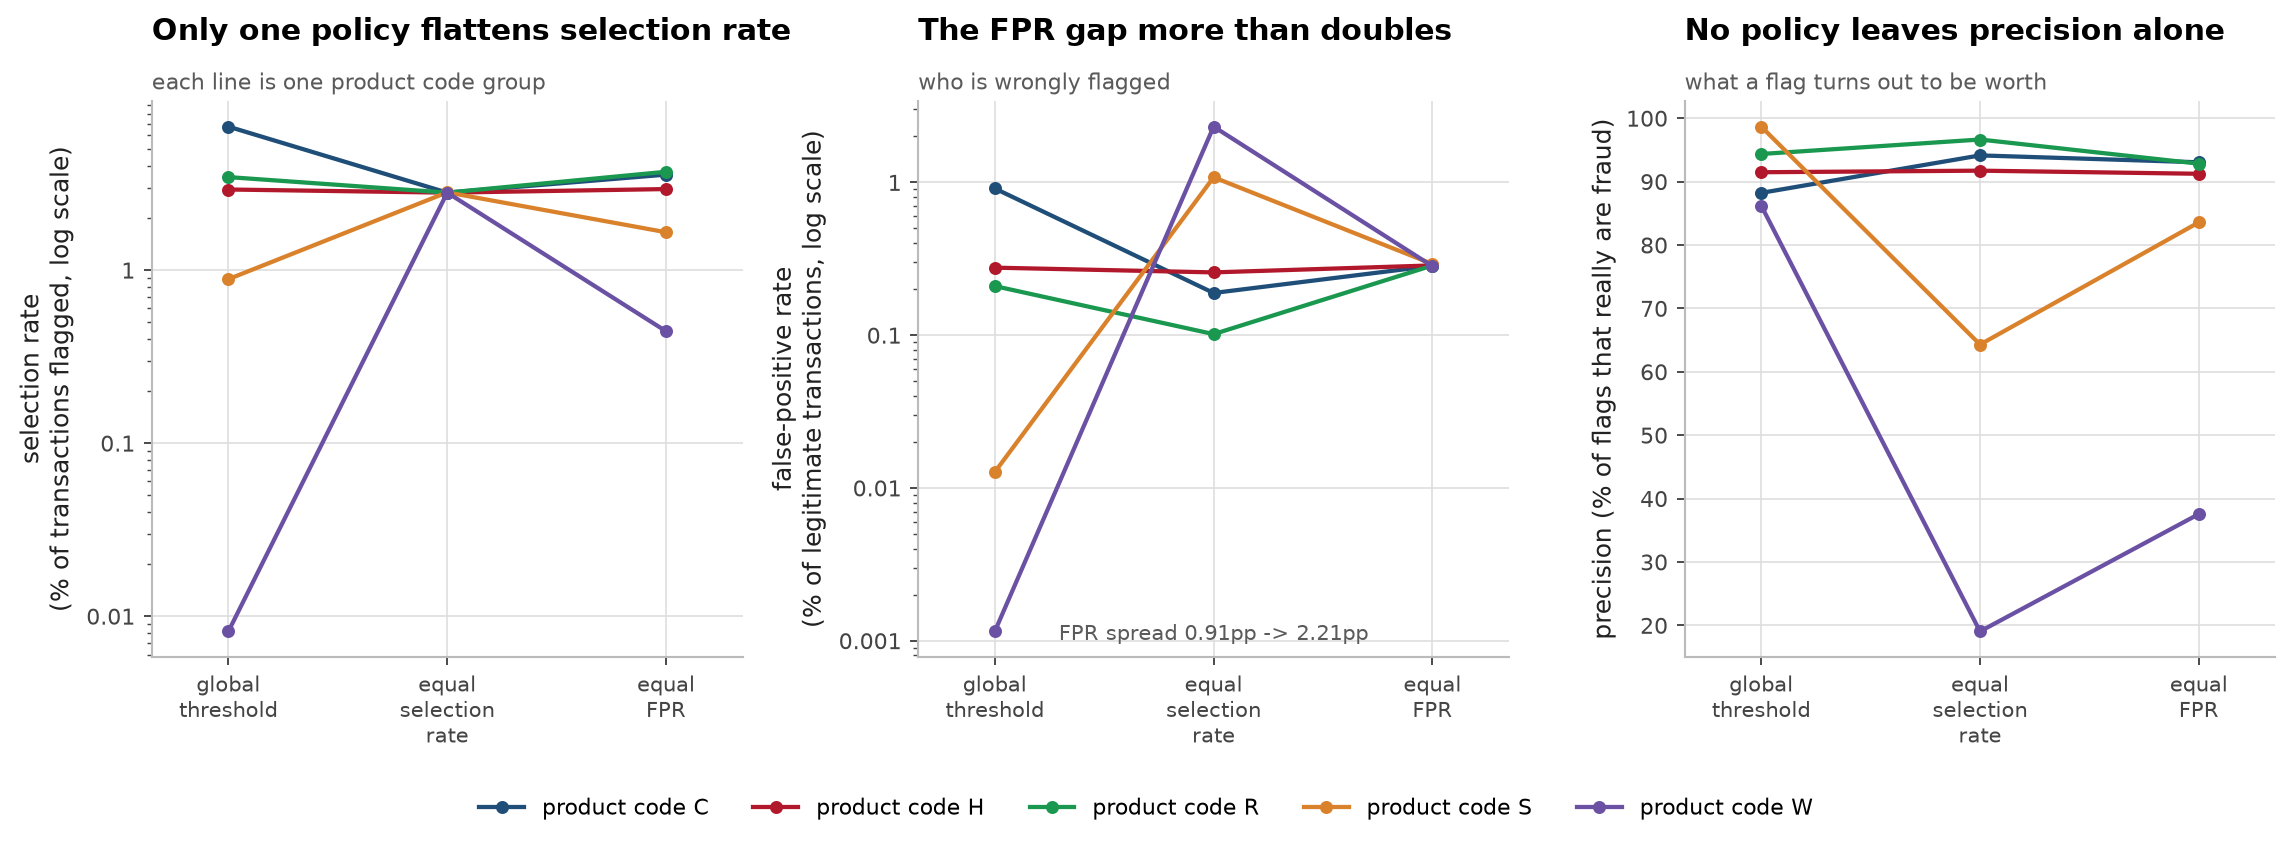
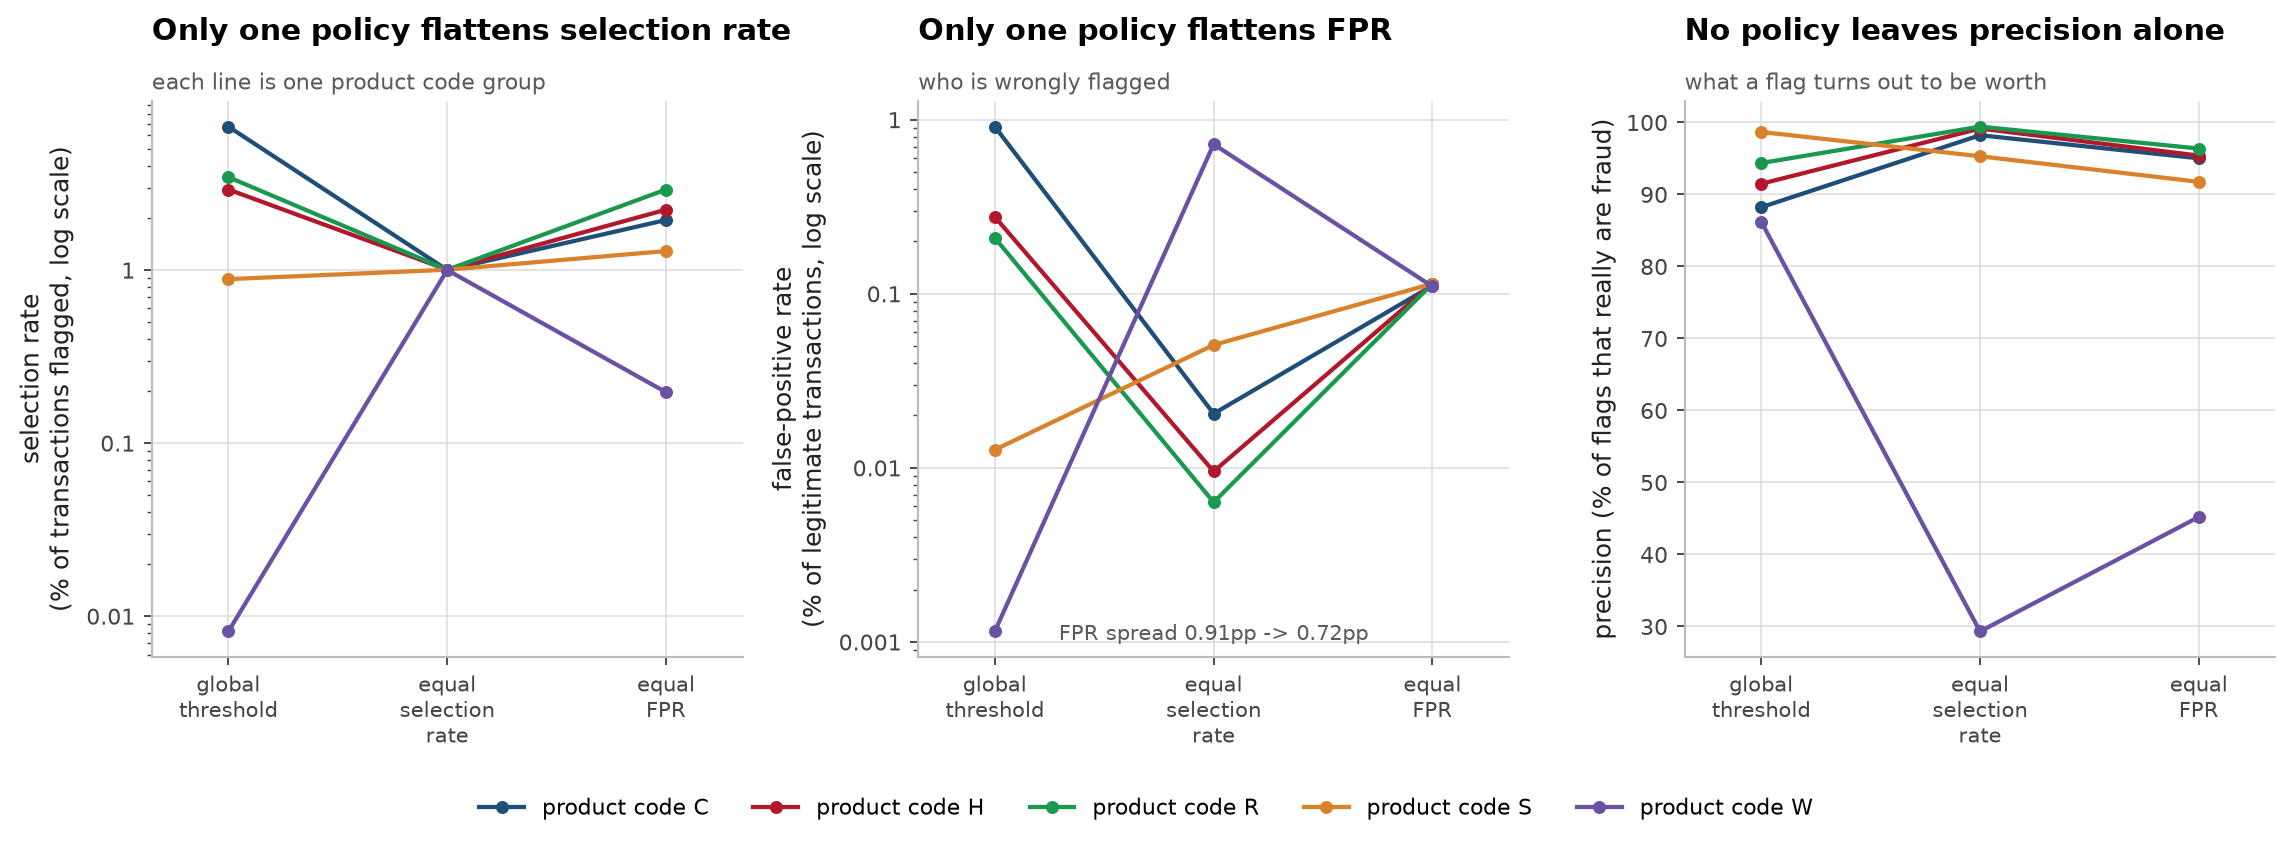
Pool the equalising policy targets over groups
impossibility.run set the equal selection and equal FPR targets as unweighted means of the five product codes' rates under the global threshold, so the targets were 2.80% selection and 0.28% FPR against a 1.00% budget and a pooled 0.11% FPR. They are now pooled: selection weighted by group size, FPR by each group's legitimate transactions. New test with groups of unequal size fails on the old code. Rebuilt data/scored.parquet from ieee-fraud-ml main and reran make audit; segment tables are unchanged. Old -> new: equal selection FPR spread 2.21pp -> 0.72pp (global 0.91pp), fraud caught 4,136 -> 1,904 (global 3,962); equal FPR selection spread 3.26pp -> 2.72pp, fraud caught 3,273 -> 2,074. So equalising selection rate no longer widens the FPR gap; what it costs at a fixed budget is half the fraud caught. README, METHODS section 4 and the figure title say that now. The Java check that the two targets need a TPR above 1 only held because of the inflated targets; it now checks that the model's own TPR at the FPR target misses the TPR both targets need (W needs 42.9%, gets 4.3%). summary.sql and readme.js follow the new definitions and prose.

diff --git a/verify/readme.js b/verify/readme.js
@@ -200,21 +200,34 @@ claim(
   "the spread the shipped policy leaves",
   `leaves a **${P["global threshold"].selection_spread_pp.toFixed(2)}pp** spread in selection rate`
 );
+const fmt = (n) => n.toLocaleString("en-US");
 claim(
-  "what equalising selection rate costs",
-  `closes that to ${P["equal selection rate"].selection_spread_pp.toFixed(2)}pp but more than ` +
-    `doubles the false-positive spread, ${P["global threshold"].FPR_spread_pp.toFixed(2)}pp ` +
-    `to **${P["equal selection rate"].FPR_spread_pp.toFixed(2)}pp**`
+  "the false-positive spread the shipped policy leaves",
+  `and a ${P["global threshold"].FPR_spread_pp.toFixed(2)}pp spread in false-positive rate`
+);
+claim(
+  "what equalising selection rate does to the two spreads",
+  `closes the first to ${P["equal selection rate"].selection_spread_pp.toFixed(2)}pp and ` +
+    `narrows the second to ${P["equal selection rate"].FPR_spread_pp.toFixed(2)}pp`
 );
 assert(
-  "equalising selection rate really does more than double the false-positive spread",
-  P["equal selection rate"].FPR_spread_pp / P["global threshold"].FPR_spread_pp > 2,
+  "equalising selection rate really does narrow the false-positive spread",
+  P["equal selection rate"].FPR_spread_pp < P["global threshold"].FPR_spread_pp,
   `the factor is ${(P["equal selection rate"].FPR_spread_pp / P["global threshold"].FPR_spread_pp).toFixed(3)}`
 );
 claim(
+  "what equalising selection rate costs in fraud caught",
+  `catches **${fmt(P["equal selection rate"].fraud_caught)}** frauds instead of ` +
+    `**${fmt(P["global threshold"].fraud_caught)}**`
+);
+claim(
   "what equalising false-positive rate costs",
-  `closes that gap to ${P["equal FPR"].FPR_spread_pp.toFixed(2)}pp and opens a ` +
-    `${P["equal FPR"].selection_spread_pp.toFixed(2)}pp selection spread instead`
+  `closes that gap to ${P["equal FPR"].FPR_spread_pp.toFixed(2)}pp, leaves a ` +
+    `${P["equal FPR"].selection_spread_pp.toFixed(2)}pp selection spread`
+);
+claim(
+  "fraud caught under equal false-positive rate",
+  `and catches ${fmt(P["equal FPR"].fraud_caught)}.`
 );
 assert(
   "both equalising policies need more than one threshold",

diff --git a/verify/Impossibility.java b/verify/Impossibility.java
@@ -15,9 +15,9 @@
 //
 //   1. every published row solves the identity back to its own base rate,
 //   2. the base rates genuinely differ, so the constraint is live,
-//   3. equal selection rate and equal FPR at the published targets would need
-//      a true positive rate above 1 in at least one group, which is not a hard
-//      trade-off but an arithmetic impossibility,
+//   3. equal selection rate and equal FPR at the published targets need a
+//      particular true positive rate in each group, and this model's own
+//      curve, read off the equal FPR rows, misses it in at least one group,
 //   4. each policy in impossibility.csv has the smallest spread on the
 //      criterion it targets and not on the others,
 //   5. only the global threshold gives the same decision to the same score.
@@ -122,25 +122,30 @@ public class Impossibility {
                           pMin, gMin, pMax, gMax, pMax / pMin);
 
         // 3. Equal selection rate and equal FPR together, at the published
-        //    targets, would need TPR above 1 somewhere.
+        //    targets, pin each group's TPR:
         //    selection = p*TPR + (1-p)*FPR, so TPR = FPR + (selection-FPR)/p.
+        //    The equal FPR rows say what TPR the model actually reaches at that
+        //    FPR. When the two disagree, no threshold gives both. Pooled
+        //    targets (1% and 0.11%) need no TPR above 1, so this is a property
+        //    of the model, not pure arithmetic.
         double s = json(doc, "target_selection"), f = json(doc, "target_fpr");
-        String impossibleGroup = null;
-        double impossibleTpr = 0.0;
-        for (Map<String, String> r : pc) {
+        String missGroup = null;
+        double missNeed = 0.0, missHave = 0.0;
+        for (Map<String, String> r : readCsv(root.resolve("reports/impossibility.csv"))) {
+            if (!"equal FPR".equals(r.get("policy"))) continue;
             double p = num(r, "base_rate");
-            double need = f + (s - f) / p;
-            if (need > 1.0 && need > impossibleTpr) {
-                impossibleTpr = need;
-                impossibleGroup = r.get("group");
+            double need = f + (s - f) / p, have = num(r, "TPR");
+            if (Math.abs(need - have) > Math.abs(missNeed - missHave)) {
+                missNeed = need; missHave = have; missGroup = r.get("group");
             }
         }
-        if (impossibleGroup == null)
-            fail("no group needs an impossible TPR, so this check proves nothing here");
+        if (missGroup == null || Math.abs(missNeed - missHave) < 0.01)
+            fail("the model reaches the TPR both targets need in every group, so both could hold");
         else
             System.out.printf("  equalising selection at %.4f%% and FPR at %.4f%% at once would"
-                              + " need product %s to catch %.1f%% of its fraud%n",
-                              s * 100, f * 100, impossibleGroup, impossibleTpr * 100);
+                              + " need product %s to catch %.1f%% of its fraud; at that FPR it"
+                              + " catches %.1f%%%n",
+                              s * 100, f * 100, missGroup, missNeed * 100, missHave * 100);
 
         // 4 and 5. Each policy owns its own criterion in the published table.
         List<Map<String, String>> imp = readCsv(root.resolve("reports/impossibility.csv"));
@@ -181,9 +186,8 @@ public class Impossibility {
             fail("the equal selection rate policy does not have the smallest selection spread");
         if (!(ef[1] < gt[1] && ef[1] < es[1]))
             fail("the equal FPR policy does not have the smallest FPR spread");
-        if (!(es[1] > gt[1]))
-            fail("equalising selection rate did not widen the FPR spread against the shipped"
-                 + " policy, so nothing was traded");
+        if (!(es[1] > 10 * ef[1]))
+            fail("equalising selection rate closed the FPR gap as well, so nothing was traded");
         if (!(ef[0] > es[0]))
             fail("equalising FPR did not widen the selection spread against the equal selection"
                  + " rate policy, so nothing was traded");

diff --git a/tests/test_metrics.py b/tests/test_metrics.py
@@ -103,6 +103,24 @@ def test_no_policy_equalises_both_at_once():
                    for p in s["policies"].values())
 
 
+def test_equalising_targets_are_pooled_over_groups():
+    """The targets are pooled over groups, so with one group nine times the
+    size of the other the equal selection policy still flags the budget, and
+    the FPR target is the global policy's pooled FPR. An unweighted mean of
+    per-group rates let the small group pull both targets off."""
+    d = frame(n=20000)
+    d = pd.concat([d[d["product_code"] == "A"].iloc[:1000], d[d["product_code"] == "B"]])
+    out, s = impossibility.run(d, "product_code", budget=0.05)
+    legit = out["n"] * (1 - out["base_rate"])
+    for name in ["global threshold", "equal selection rate"]:
+        sub = out[out["policy"] == name]
+        assert (sub["selection_rate"] * sub["n"]).sum() / sub["n"].sum() == pytest.approx(0.05, abs=0.003), name
+    assert s["target_selection"] == pytest.approx(0.05, abs=0.003)
+    g = out[out["policy"] == "global threshold"]
+    pooled_fpr = (g["FPR"] * legit[g.index]).sum() / legit[g.index].sum()
+    assert s["target_fpr"] == pytest.approx(pooled_fpr)
+
+
 def test_group_with_no_fraud_is_kept_because_its_fpr_is_defined():
     """Every flag in a fraud-free group is a false positive. Dropping the group
     for having no positives hides exactly the people the FPR is meant for."""

diff --git a/src/auditor/impossibility.py b/src/auditor/impossibility.py
@@ -62,11 +62,16 @@ def run(df: pd.DataFrame, segment: str = "product_code",
         raise ValueError(f"not enough usable groups in {segment}")
 
     # Targets for the two equalising policies, taken from the global policy so
-    # all three cost roughly the same review capacity and remain comparable.
-    base = {g: _rates(s["isFraud"].to_numpy().astype(bool),
-                      s["pred"].to_numpy() >= global_thr) for g, s in groups}
-    target_sel = float(np.mean([v["selection_rate"] for v in base.values()]))
-    target_fpr = float(np.mean([v["FPR"] for v in base.values()]))
+    # all three cost the same review capacity and remain comparable. Pooled, not
+    # an unweighted mean over groups: averaging per-group rates let five groups
+    # of very different size vote equally, which set the selection target at
+    # 2.80% against a 1.00% budget. Selection is weighted by group size and FPR
+    # by each group's count of legitimate transactions.
+    flag = {g: s["pred"].to_numpy() >= global_thr for g, s in groups}
+    legit = {g: ~s["isFraud"].to_numpy().astype(bool) for g, s in groups}
+    target_sel = float(np.concatenate(list(flag.values())).mean())
+    target_fpr = float(sum((flag[g] & legit[g]).sum() for g, _ in groups)
+                       / sum(legit[g].sum() for g, _ in groups))
 
     rows = []
     for g, s in groups:

diff --git a/scripts/make_figures.py b/scripts/make_figures.py
@@ -162,7 +162,7 @@ def impossibility(out: Path) -> Path:
          True, "Only one policy flattens selection rate",
          "each line is one product code group"),
         ("FPR", "false-positive rate\n(% of legitimate transactions, log scale)",
-         True, "The FPR gap more than doubles",
+         True, "Only one policy flattens FPR",
          "who is wrongly flagged"),
         ("precision", "precision (% of flags that really are fraud)",
          False, "No policy leaves precision alone",

diff --git a/notes/METHODS.md b/notes/METHODS.md
@@ -84,16 +84,24 @@ hold together when base rates differ. That is a theorem
 conversation stops. Base rates here differ 5.7×, so it is a live constraint
 so I built all three deployable policies and measured what each costs:
 
-| policy | selection spread | FPR spread | same score → same decision? |
-|---|---|---|---|
-| one global threshold | 6.74pp | 0.91pp | **yes** |
-| equal selection rate | **0.01pp** | 2.21pp | no |
-| equal FPR | 3.26pp | **0.01pp** | no |
+| policy | selection spread | FPR spread | fraud caught | same score → same decision? |
+|---|---|---|---|---|
+| one global threshold | 6.74pp | 0.91pp | 3,962 | **yes** |
+| equal selection rate | **0.00pp** | 0.72pp | 1,904 | no |
+| equal FPR | 2.72pp | **0.00pp** | 2,074 | no |
 
-Equalising selection rates **more than doubles** the FPR gap (0.91 → 2.21pp)
-the intuitive fix makes the harm-to-innocents disparity worse. And both
-equalising policies require different thresholds per group, so an identical
-score produces a different decision depending on which group you fall in.
+The equalising targets are the global policy's own rates pooled over groups:
+1.00% selection and 0.11% FPR. An earlier version took an unweighted mean of
+the five groups' rates instead, which set them at 2.80% and 0.28%, so those
+policies reviewed almost three times the budget and the table compared
+different amounts of work. With the budget held fixed the picture changes.
+Equalising selection rate no longer widens the FPR gap; it narrows it a little,
+0.91 to 0.72pp. What it costs is fraud caught: it takes reviews off product C,
+where 88% of flags are fraud, and spends them on W, where 29% are, and catches
+less than half as much. Equalising FPR reviews only 0.58% of transactions and
+also catches about half. And both equalising policies require different
+thresholds per group, so an identical score produces a different decision
+depending on which group you fall in.
 
 There is no fair row. Choosing between them is a policy decision about who
 absorbs the error, and the Regulation does not make it for you, Article

diff --git a/README.md b/README.md
@@ -129,12 +129,16 @@ transactions that cost the most when missed.
 
 Equal selection rates, equal false-positive rates, and a calibrated score cannot
 hold together when base rates differ. I built all three policies on product code
-and measured what each one costs. One global threshold leaves a **6.74pp**
-spread in selection rate; equalising selection rate closes that to 0.01pp but
-more than doubles the false-positive spread, 0.91pp to **2.21pp**; equalising
-false-positive rate closes that gap to 0.01pp and opens a 3.26pp selection
-spread instead. Both equalising policies need a different threshold per group,
-so the same score gets a different decision depending on which group you are in.
+and measured what each one costs at the same 1% review budget. One global
+threshold leaves a **6.74pp** spread in selection rate and a 0.91pp spread in
+false-positive rate. Equalising selection rate closes the first to 0.00pp and
+narrows the second to 0.72pp, but it moves reviews from product C onto W, where
+only 29% of flags are fraud, and catches **1,904** frauds instead of **3,962**.
+Equalising false-positive rate at the global policy's pooled 0.11% closes that
+gap to 0.00pp, leaves a 2.72pp selection spread, reviews only 0.58% of
+transactions and catches 2,074. Both equalising policies need a different
+threshold per group, so the same score gets a different decision depending on
+which group you are in.
 
 Choosing between them is a decision about who bears which error, and no amount of
 tuning removes it.
